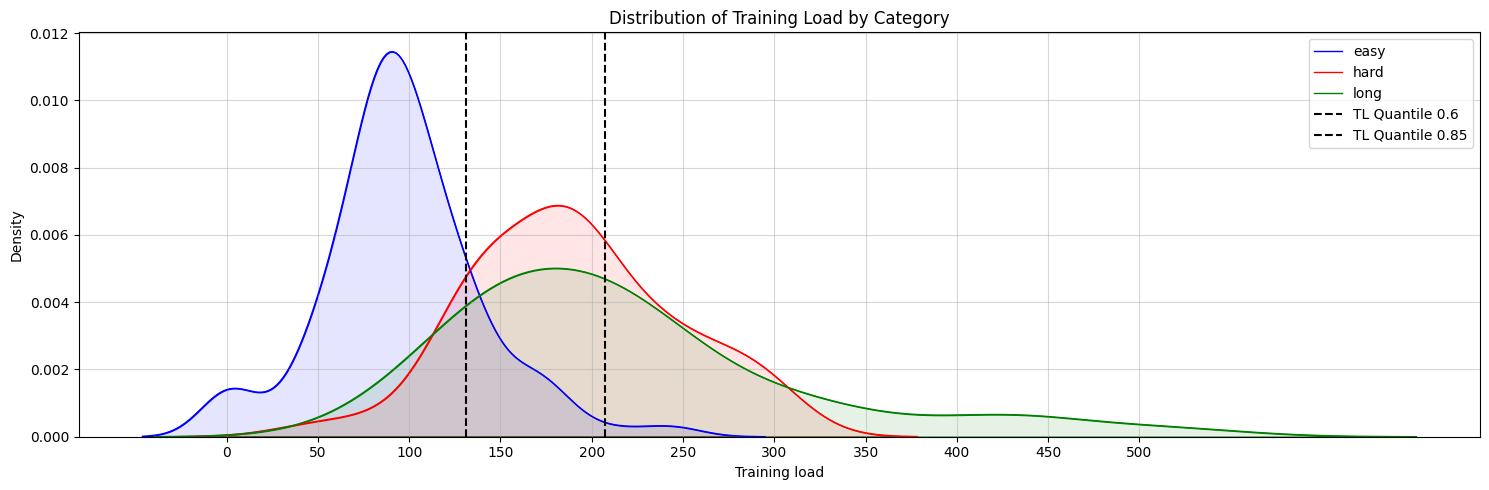
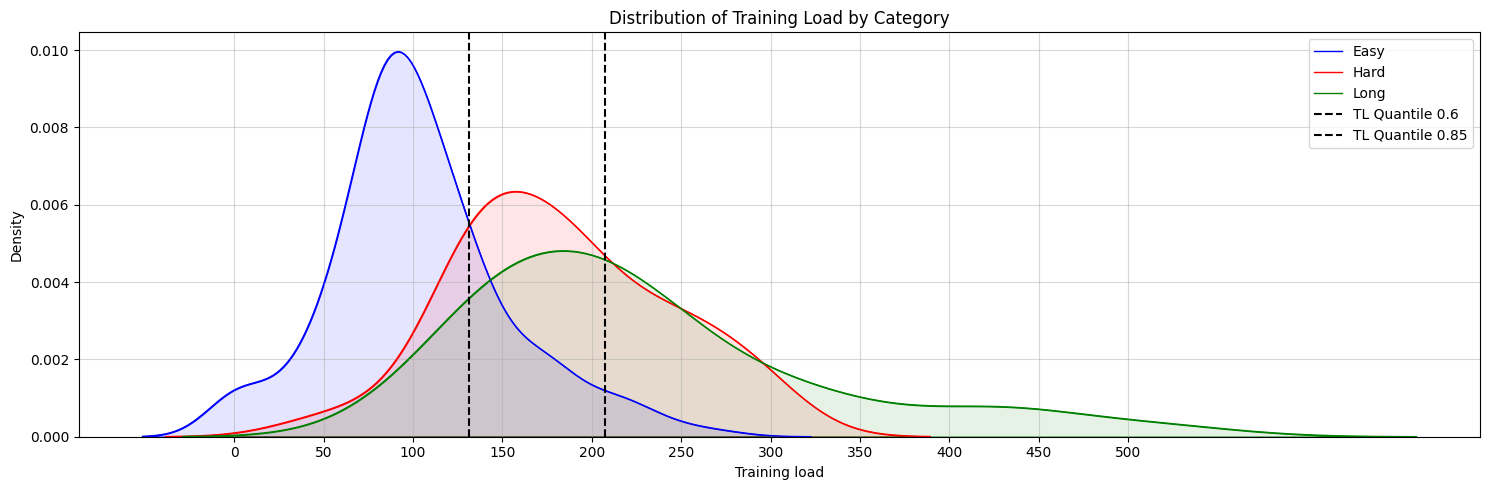
rebuild

diff --git a/_site/projects/training_log/hasr_tl.html b/_site/projects/training_log/hasr_tl.html
@@ -249,11 +249,11 @@ window.Quarto = {
 <p>Having defined these buckets, we summarize each bucket by the <strong>weighted average training load</strong> within, where we allow more recent training days to contribute more to the bucket averages. With this, we make the metric sensitive to shifts in the typical intensity of each type of session within the bucket.</p>
 <p>Based on my training data (with a hardcoded mapping into the categories Rest, Easy, Hard, Long, and Other), the distribution of training loads and their descriptive values are as follows:</p>
 <ul>
-<li>Rest - 14% of days, TL = avg 0, SD 0</li>
-<li>Easy - 47% of days, TL = avg 96, SD 43</li>
-<li>Hard - 14% of days, TL = avg 190, SD 56</li>
-<li>Long - 18% of days, TL = avg 218, SD 96</li>
-<li>Other - 7% of days, TL = avg 130, SD 66</li>
+<li>Rest - 14% of days, TL = avg 0, median 0, SD 0</li>
+<li>Easy - 37% of days, TL = avg 89, median 88, SD 36</li>
+<li>Hard - 27% of days, TL = avg 188, median 182, SD 58</li>
+<li>Long - 12% of days, TL = avg 213, median 182, SD 110</li>
+<li>Other - 10% of days, TL = avg 107, median 100, SD 65</li>
 </ul>
 <p><img src="saved_files/training_type_distribution.png" class="click-zoom img-fluid"></p>
 <p>Let <span class="math inline">\(w_j\)</span> be the weight of day <span class="math inline">\(j\)</span> in the baseline window <span class="math inline">\(\mathcal{L}_t\)</span> and <span class="math inline">\(v_j\)</span> be the weight of day <span class="math inline">\(j\)</span> in the recent window <span class="math inline">\(\mathcal{R}_t\)</span>. We then define the weighted averages within each bucket as:</p>
@@ -283,11 +283,12 @@ window.Quarto = {
 <p>Based on the applied most recent session classification, we evaluated the alignment between the model’s classifications and the training type categories that were assigned “by hand”, presented above.</p>
 <p>It is important to emphasize that a mismatch between the two does not necessarily mean the “model” was wrong. Instead, it may indicate that the most recent session was actually harder or easier than we would perceive it. Another possibility is that the sessions in the baseline window were skewed toward the easier or harder side, which would shift the distribution and make the thresholds less “evenly” balanced across truly easy, hard, and long days.</p>
 <ul>
-<li>Easy - proportion of sessions classifed as “by hand” = 90%, average baseline-relative quantile rank = 0.32</li>
-<li>Hard - proportion of sessions classifed as “by hand” = 31%, average baseline-relative quantile rank = 0.72</li>
-<li>Long = proportion of sessions classifed as “by hand” = 53%, average baseline-relative quantile rank = 0.93</li>
+<li>Easy - proportion of sessions classifed as “by hand” = 69%, average baseline-relative quantile rank = 0.37</li>
+<li>Hard - proportion of sessions classifed as “by hand” = 64%, average baseline-relative quantile rank = 0.80</li>
+<li>Long = proportion of sessions classifed as “by hand” = 40%, average baseline-relative quantile rank = 0.96</li>
 </ul>
-<p>Most of the hard classified sessions that were not classifed the same as “by hand” were some “easy” days that had some fast strides in and some medium-long sessions, that we classifed as long by hand. For the long sessions, most of the wrongly classifed were “by hand” perceived hard, but with training load closer to long runs.</p>
+<p>All in all, proportion of sessions classifed as “by hand” was 66%.</p>
+<p>Most of the hard classified sessions that were not classifed the same as “by hand” were some “easy” days that had some fast strides in and some double sessions, where both sessions were mostly easy, but the sum of training loads fall to hard. For the long sessions, most of the wrongly classifed were “by hand” perceived hard, but with training load closer to long runs.</p>
 <p>Most of the sessions classified as Hard that did not match the hand-labeled categories were actually “easier” days that included some fast strides or longer high paced segments. Other were some medium-long sessions which were manually classified as Long. For the Long sessions, the majority of misclassifications involved sessions that were perceived as Hard by hand, but whose overall Training Load was closer to that of typical Long sessions, so really hard, fast sessions.</p>
 </section>
 <section id="history-aware-statified-relative---training-load-hasr-tl" class="level3">